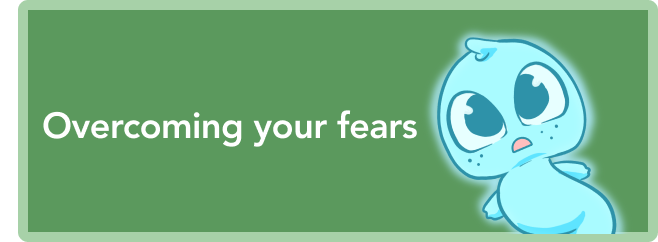
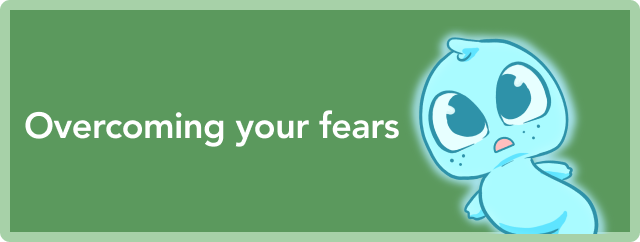
fixed storytime buttons

Changed region(s): [[0.0, 0.0, 0.9375, 1.0]]

diff --git a/src/components/milkMilkMilk.js b/src/components/milkMilkMilk.js
@@ -17,7 +17,7 @@ class milkMilkMilk extends React.Component {
     this.fadeValueCrystalBall = new Animated.Value(0);
 
     this.questions = [
-      'Hey [insert name], would you like to hear something really cool?',
+      'Hey Joe, would you like to hear something really cool?',
       'Great! You will love it! Could you say the word "milk" once?',
       'Alright, what came to mind when you said it? You can choose one of the options above:',
       'Do any of these pop up in your mind when we say milk? You can choose one of the options above:',

diff --git a/src/components/storytime.js b/src/components/storytime.js
@@ -13,12 +13,12 @@ const storytime = props => {
         </TouchableOpacity>
 
         <TouchableOpacity>
-          <Image style={styles.btn}
-            source={require('../../assets/feelings.png')} />
+          <Image style={styles.btn2}
+            source={require('../../assets/anger.png')} />
         </TouchableOpacity>
 
         <TouchableOpacity>
-          <Image style={styles.btn}
+          <Image style={styles.btn2}
             source={require('../../assets/fears.png')} />
         </TouchableOpacity>
 

diff --git a/src/stylesheets/storytimeStyles.js b/src/stylesheets/storytimeStyles.js
@@ -9,8 +9,15 @@ const styles = StyleSheet.create({
   },
   btn: {
     position: 'relative',
-    left: -6,
-    width: 332,
+    left: -2,
+    width: 320,
+    height: 114,
+    marginVertical: '5%',
+  },
+  btn2: {
+    position: 'relative',
+    left: -2,
+    width: 320,
     height: 120,
     marginVertical: '5%',
   },

diff --git a/App.js b/App.js
@@ -22,6 +22,8 @@ const Stack = createStackNavigator();
 const store = configureStore();
 
 export default function App(props) {
+  
+  console.disableYellowBox = true; 
 
   return (
     <NavigationContainer>

diff --git a/README.md b/README.md
@@ -3,7 +3,7 @@
 Calm On! aims to create a fun and interactive experience that can educate youths (ages 6-11) to learn more about their feelings and mental health techniques. 
 The Calm On app will provide users with fun emotion coaches in the form of our characters, Sprite, Aurora, and Flynn. Each coach has their own theme, personality, and activities that children can interact with to help them deal with the difficulties of living in quarantine.
 
-![splash](readme_assets/splash.png)
+![splash](readme_assets/splash.png) 
 
 ## Background and Overview 
 
@@ -15,3 +15,15 @@ Calm On! aims to create a fun and interactive experience that can help youths (a
 ## Functionality and MVP List
 
 **1. User Authentication**
+- Users must login or signup in order to use Lookbook's features.
+
+![login](readme_assets/login.gif)
+
+**2. Spirit Selection**
+- Users can select a spirit or life coach.
+  - Each spirit has different features, such as storytelling, mindfulness techniques, exercise, etc.
+
+![spirits](readme_assets/spirits.gif)
+
+**3. Sprite**
+- Users can 
